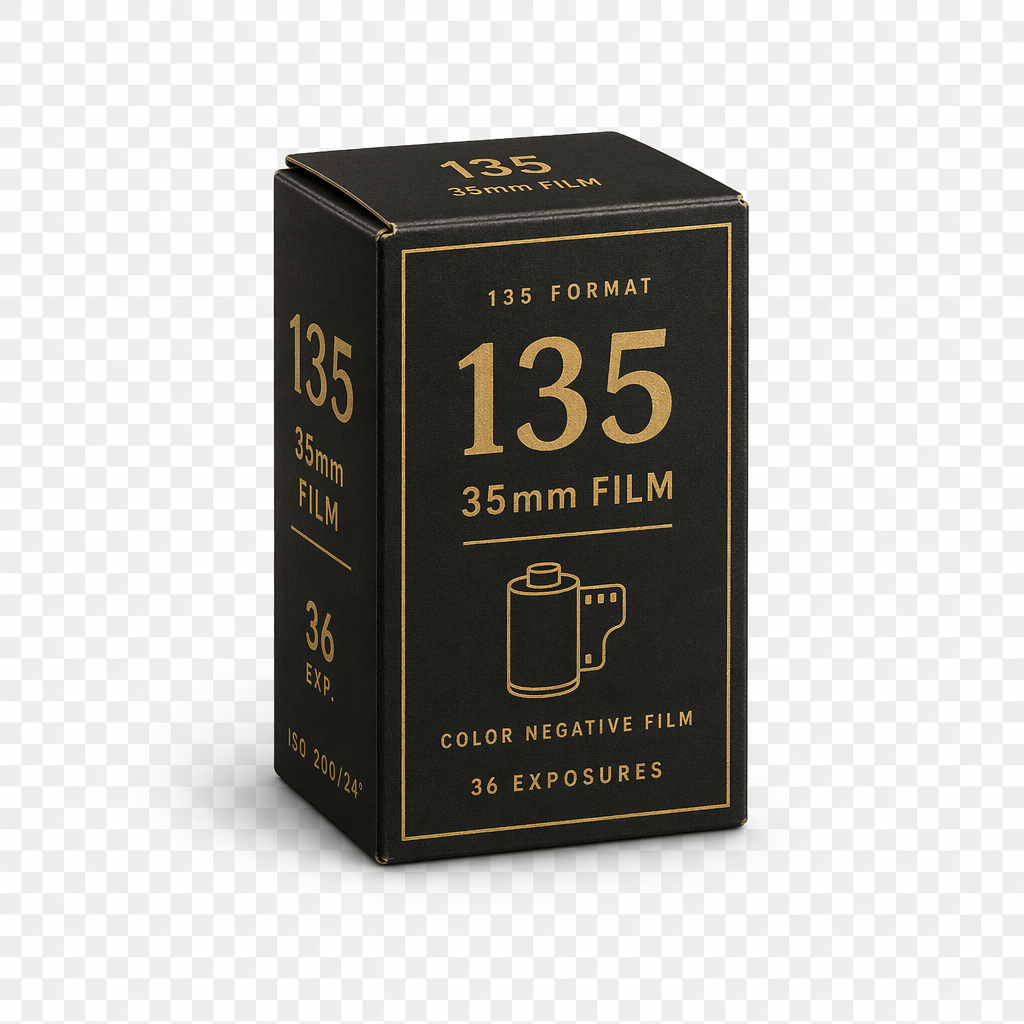
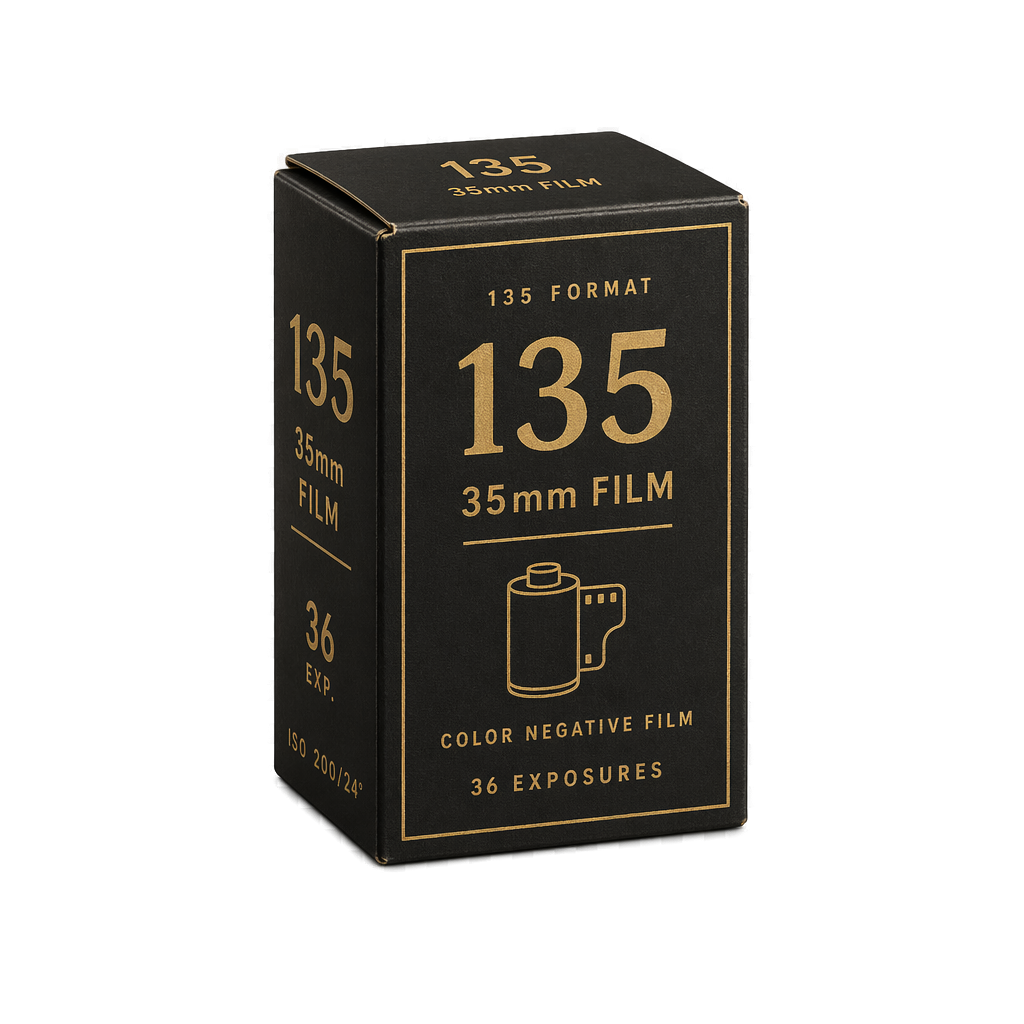
1

Changed region(s): [[0.1562, 0.6562, 0.75, 0.875]]

diff --git a/src/lib/image-compress.ts b/src/lib/image-compress.ts
@@ -15,6 +15,29 @@ const PRESETS: Record<CompressionMode, Partial<CompressionOptions>> = {
   size: { maxSizeMB: 1.5, maxWidthOrHeight: 2048, initialQuality: 0.65 },
 }
 
+export function mapCompressionProgress(
+  passIndex: number,
+  totalPasses: number,
+  onProgress?: (progress: number) => void
+): (progress: number) => void {
+  if (!onProgress) {
+    return () => {}
+  }
+
+  const safeTotalPasses = Math.max(totalPasses, 1)
+  const clampedPassIndex = Math.min(Math.max(passIndex, 0), safeTotalPasses - 1)
+  const passStart = (clampedPassIndex / safeTotalPasses) * 100
+  const passRange = 100 / safeTotalPasses
+  let lastProgress = Math.round(passStart)
+
+  return (progress: number) => {
+    const clampedProgress = Math.min(Math.max(progress, 0), 100)
+    const mappedProgress = Math.round(passStart + (clampedProgress / 100) * passRange)
+    lastProgress = Math.max(lastProgress, mappedProgress)
+    onProgress(lastProgress)
+  }
+}
+
 export async function compressImage(
   file: File,
   options: CompressionOptions = {},
@@ -31,22 +54,39 @@ export async function compressImage(
   const maxSizeMB = options.maxSizeMB ?? preset.maxSizeMB ?? 4
   const maxWidthOrHeight = options.maxWidthOrHeight ?? preset.maxWidthOrHeight ?? 4096
   const initialQuality = options.initialQuality ?? preset.initialQuality ?? 0.8
+  const maxSizeBytes = maxSizeMB * 1024 * 1024
+  const totalPasses = mode === 'quality' ? 2 : 1
 
   // Skip if already smaller than target
-  if (file.size <= maxSizeMB * 1024 * 1024) {
+  if (file.size <= maxSizeBytes) {
     onProgress?.(100)
     return file
   }
 
-  const blob = await imageCompression(file, {
+  const baseOptions = {
     maxSizeMB,
     maxWidthOrHeight,
     initialQuality,
     useWebWorker: true,
     preserveExif: true,
+  }
+
+  let blob: Blob = await imageCompression(file, {
+    ...baseOptions,
     alwaysKeepResolution: mode === 'quality',
-    onProgress: onProgress,
+    onProgress: mapCompressionProgress(0, totalPasses, onProgress),
   })
+
+  // Quality mode keeps resolution first; fall back to resizing if still over target
+  if (mode === 'quality' && blob.size > maxSizeBytes) {
+    blob = await imageCompression(file, {
+      ...baseOptions,
+      alwaysKeepResolution: false,
+      onProgress: mapCompressionProgress(1, totalPasses, onProgress),
+    })
+  }
+
+  onProgress?.(100)
 
   return new File([blob], file.name, { type: blob.type, lastModified: Date.now() })
 }

diff --git a/src/app/gallery/film/FilmPageContent.tsx b/src/app/gallery/film/FilmPageContent.tsx
@@ -15,13 +15,11 @@ function getFrameTitle(photo: PhotoDto, frameIndex: number) {
 }
 
 function getRollMetaLine(roll: FilmRollDto) {
-  const parts = [`${roll.frameCount || 36} EXP`, '35MM']
-  if (roll.iso) parts.push(`ISO ${roll.iso}`)
-  return parts.join(' • ')
+  return `${roll.frameCount || 36} EXP • 35MM`
 }
 
 function getRollNote(roll: FilmRollDto) {
-  return roll.notes?.trim() || 'ARCHIVE ENTRY'
+  return roll.notes?.trim()
 }
 
 function SprocketRail({ holeCount }: { holeCount: number }) {
@@ -88,6 +86,7 @@ function ArchiveRollRow({
   onPhotoClick: (photo: PhotoDto) => void
 }) {
   const holeCount = Math.max(photos.length * 2 + 4, 14)
+  const rollNote = getRollNote(roll)
 
   return (
     <motion.article
@@ -103,7 +102,7 @@ function ArchiveRollRow({
             alt="135 film box"
             fill
             sizes="108px"
-            className="object-contain drop-shadow-[0_22px_28px_rgba(0,0,0,0.55)]"
+            className="scale-[1.75] object-contain drop-shadow-[0_22px_28px_rgba(0,0,0,0.55)]"
             priority={rowIndex === 0}
           />
         </div>
@@ -115,15 +114,19 @@ function ArchiveRollRow({
           <h2 className="mt-3 font-serif text-[2rem] font-light leading-none tracking-[0.03em] text-[#d7b16a] sm:text-[2.2rem]">
             {roll.name}
           </h2>
-          <p className="mt-4 font-mono text-[10px] uppercase tracking-[0.28em] text-[#827867]">
+          <p className="mt-4 whitespace-nowrap font-mono text-[10px] uppercase tracking-[0.28em] text-[#827867]">
             {getRollMetaLine(roll)}
           </p>
-          <p className="mt-3 max-w-[18rem] font-mono text-[9px] uppercase tracking-[0.28em] text-[#6e654f]">
-            {getRollNote(roll)}
-          </p>
-          <p className="mt-6 font-mono text-[9px] uppercase tracking-[0.36em] text-[#a3803f]">
-            View Details
-          </p>
+          {roll.iso ? (
+            <p className="mt-2 font-mono text-[10px] uppercase tracking-[0.28em] text-[#827867]">
+              ISO {roll.iso}
+            </p>
+          ) : null}
+          {rollNote ? (
+            <p className="mt-3 max-w-[18rem] font-mono text-[9px] uppercase tracking-[0.28em] text-[#6e654f]">
+              {rollNote}
+            </p>
+          ) : null}
         </div>
       </div>
 

diff --git a/src/app/admin/ai-assistant/page.tsx b/src/app/admin/ai-assistant/page.tsx
@@ -333,7 +333,7 @@ export default function AiAssistantPage() {
   const activeConvoTitle = conversations.find((c) => c.id === activeConversation)?.title
 
   return (
-    <div className="h-full flex overflow-hidden rounded-lg border border-border/60">
+    <div className="h-full flex overflow-hidden">
       {/* Conversation sidebar */}
       <AnimatePresence initial={false}>
         {showSidebar && (
@@ -793,9 +793,14 @@ function ModelSelector({
     ? models.filter((m) => m.label.toLowerCase().includes(search.trim().toLowerCase()))
     : models
 
+  const handleToggle = () => {
+    const nextIsOpen = !isOpen
+    if (nextIsOpen) setSearch('')
+    setIsOpen(nextIsOpen)
+  }
+
   useEffect(() => {
     if (isOpen) {
-      setSearch('')
       // Focus search input after animation
       requestAnimationFrame(() => searchRef.current?.focus())
     }
@@ -815,7 +820,7 @@ function ModelSelector({
     <div ref={containerRef} className="relative">
       <button
         type="button"
-        onClick={() => setIsOpen(!isOpen)}
+        onClick={handleToggle}
         className="flex items-center gap-1.5 px-2.5 py-1 rounded-lg border border-border/40 text-[10px] font-bold uppercase tracking-widest text-muted-foreground hover:text-foreground hover:border-border transition-colors cursor-pointer"
       >
         <Sparkles className="w-3 h-3 text-primary/60" />